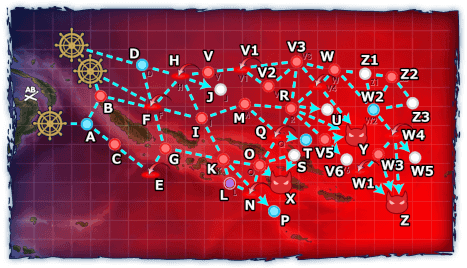
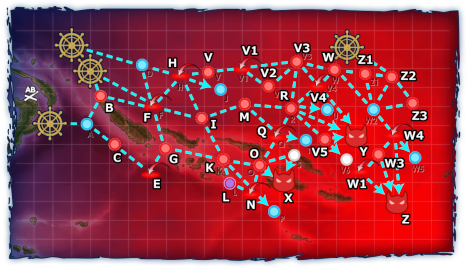
E-7-3 map

diff --git a/js/data.js b/js/data.js
@@ -15,8 +15,8 @@ const PLANE_TYPE = [
 	{ id: 102, name: "陸軍戦闘機", abbr: "陸戦", css: "css_lb_fighter" },
 	{ id: 103, name: "局地戦闘機", abbr: "局戦", css: "css_lb_attack_aircraft" },
 	{ id: 104, name: "陸上偵察機", abbr: "陸偵", css: "css_cb_reconnaissance" },
-];
-const PLANE_DATA = [
+ ];
+ const PLANE_DATA = [
 	{ id: 19, type: 1, name: "九六式艦戦", abbr: "", fire: 0, antiAir: 3, torpedo: 0, bomber: 0, armor: 0, asw: 0, antiBomber: 0, interception: 0, scout: 0, canRemodel: 1, accuracy: 0, avoid2: 1, radius: 3, cost: 3, avoid: 0 },
 	{ id: 20, type: 1, name: "零式艦戦21型", abbr: "", fire: 0, antiAir: 5, torpedo: 0, bomber: 0, armor: 0, asw: 0, antiBomber: 0, interception: 0, scout: 0, canRemodel: 1, accuracy: 0, avoid2: 0, radius: 7, cost: 4, avoid: 0 },
 	{ id: 21, type: 1, name: "零式艦戦52型", abbr: "", fire: 0, antiAir: 6, torpedo: 0, bomber: 0, armor: 0, asw: 0, antiBomber: 0, interception: 0, scout: 0, canRemodel: 1, accuracy: 0, avoid2: 0, radius: 6, cost: 5, avoid: 0 },
@@ -178,8 +178,8 @@ const PLANE_DATA = [
 	{ id: 354, type: 103, name: "Fw190 D-9", abbr: "", fire: 2, antiAir: 12, torpedo: 0, bomber: 0, armor: 0, asw: 0, antiBomber: 3, interception: 3, scout: 0, canRemodel: 0, accuracy: 0, avoid2: 0, radius: 3, cost: 8, avoid: 0 },
 	{ id: 311, type: 104, name: "二式陸上偵察機", abbr: "", fire: 0, antiAir: 3, torpedo: 0, bomber: 0, armor: 0, asw: 0, antiBomber: 0, interception: 0, scout: 8, canRemodel: 0, accuracy: 2, avoid2: 0, radius: 8, cost: 7, avoid: 0 },
 	{ id: 312, type: 104, name: "二式陸上偵察機(熟練)", abbr: "", fire: 0, antiAir: 3, torpedo: 0, bomber: 0, armor: 1, asw: 0, antiBomber: 0, interception: 0, scout: 9, canRemodel: 1, accuracy: 3, avoid2: 0, radius: 9, cost: 7, avoid: 0 },
-];
-const SHIP_TYPE = [
+ ];
+ const SHIP_TYPE = [
 	{ id: 1, name: "正規空母" },
 	{ id: 2, name: "装甲空母" },
 	{ id: 3, name: "軽空母" },
@@ -200,8 +200,8 @@ const SHIP_TYPE = [
 	{ id: 18, name: "潜水艦" },
 	{ id: 19, name: "海防艦" },
 	{ id: 20, name: "工作艦" },
-];
-const SHIP_DATA = [
+ ];
+ const SHIP_DATA = [
 	{ id: 6, type: 1, name: "赤城", slot: [18, 18, 27, 10], final: 0, orig: 6, deckid: 83 },
 	{ id: 7, type: 1, name: "加賀", slot: [18, 18, 45, 12], final: 0, orig: 7, deckid: 84 },
 	{ id: 8, type: 1, name: "蒼龍", slot: [12, 27, 18, 7], final: 0, orig: 8, deckid: 90 },
@@ -352,8 +352,8 @@ const SHIP_DATA = [
 	{ id: 1501, type: 12, name: "伊19改", slot: [1, 1], final: 1, orig: 123, deckid: 401 },
 	{ id: 1503, type: 12, name: "伊401改", slot: [3, 3], final: 1, orig: 155, deckid: 403 },
 	{ id: 1506, type: 12, name: "伊400改", slot: [3, 3], final: 1, orig: 293, deckid: 606 },
-];
-const ENEMY_TYPE = [
+ ];
+ const ENEMY_TYPE = [
 	{ id: 11, name: "正規空母" },
 	{ id: 12, name: "軽空母" },
 	{ id: 13, name: "戦艦" },
@@ -367,8 +367,8 @@ const ENEMY_TYPE = [
 	{ id: 21, name: "浮遊/護衛 要塞" },
 	{ id: 1, name: "鬼/姫" },
 	{ id: 2, name: "地上施設" },
-];
-const ENEMY_DATA = [
+ ];
+ const ENEMY_DATA = [
 	{ id: -1, type: [11, 12, 13, 14, 15, 16, 17, 18, 19, 20, 21, 1, 2], name: "直接入力", slot: [], eqp: [], orig: -1, aaw: 0, aabo: 0 },
 	{ id: 1, type: [16], name: "駆逐イ級", slot: [], eqp: [], orig: 1, aaw: 4, aabo: 0 },
 	{ id: 2, type: [16], name: "駆逐ロ級", slot: [], eqp: [], orig: 2, aaw: 4, aabo: 0 },
@@ -704,8 +704,8 @@ const ENEMY_DATA = [
 	{ id: 476, type: [1, 11], name: "南太平洋空母棲姫-壊 [甲]", slot: [], eqp: [], orig: 0, aaw: 26, aabo: 4 },
 	{ id: 477, type: [1, 18], name: "潜水夏姫IIfragship", slot: [], eqp: [], orig: 477, aaw: 0, aabo: 0 },
 	{ id: 478, type: [1, 18], name: "潜水夏姫IIfragship", slot: [], eqp: [], orig: 478, aaw: 0, aabo: 0 },
-];
-const ENEMY_PLANE_DATA = [
+ ];
+ const ENEMY_PLANE_DATA = [
 	{ id: 519, type: 1, name: "深海棲艦戦", antiAir: 2, torpedo: 0, bomber: 0 },
 	{ id: 520, type: 1, name: "深海棲艦戦 Mark.II", antiAir: 5, torpedo: 0, bomber: 0 },
 	{ id: 521, type: 1, name: "深海棲艦戦 Mark.III", antiAir: 9, torpedo: 0, bomber: 0 },
@@ -744,15 +744,15 @@ const ENEMY_PLANE_DATA = [
 	{ id: 555, type: 6, name: "深海水上攻撃機改", antiAir: 9, torpedo: 0, bomber: 13 },
 	{ id: 571, type: 6, name: "深海水母小鬼機", antiAir: 11, torpedo: 0, bomber: 15 },
 	{ id: 573, type: 6, name: "深海潜水下駄履き", antiAir: 6, torpedo: 0, bomber: 18 },
-];
-const DIFFICULTY = [
+ ];
+ const DIFFICULTY = [
 	{ id: -1, name: "-" },
 	{ id: 0, name: "丁" },
 	{ id: 1, name: "丙" },
 	{ id: 2, name: "乙" },
 	{ id: 3, name: "甲" },
-];
-const WORLD_DATA = [
+ ];
+ const WORLD_DATA = [
 	{ world: 2006, name: "侵攻阻止！島嶼防衛強化作戦(2020梅雨イベ)" },
 	{ world: 1, name: "鎮守府海域" },
 	{ world: 2, name: "南西諸島海域" },
@@ -763,8 +763,8 @@ const WORLD_DATA = [
 	{ world: 6, name: "中部海域" },
 	{ world: 1911, name: "進撃！第二次作戦「南方作戦」(2019秋イベ)" },
 	{ world: 2003, name: "桃の節句！沖に立つ波(ミニ期間限定海域)" },
-];
-const MAP_DATA = [
+ ];
+ const MAP_DATA = [
 	{ area: 11, name: "鎮守府正面海域" },
 	{ area: 12, name: "南西諸島沖" },
 	{ area: 13, name: "製油所地帯沿岸" },
@@ -812,8 +812,8 @@ const MAP_DATA = [
 	{ area: 20065, name: "ニューブリテン島沖/ソロモン諸島西部沖" },
 	{ area: 20066, name: "ソロモン諸島沖" },
 	{ area: 20067, name: "ソロモン諸島沖/サンタ・クルーズ諸島沖" },
-];
-const ENEMY_PATTERN = [
+ ];
+ const ENEMY_PATTERN = [
 	{ a: 11, n: "A", d: "", l: -1, t: 1, f: 1, r: 0, e: [1], c: "219,112,246,149" },
 	{ a: 11, n: "A", d: "", l: -1, t: 1, f: 1, r: 0, e: [2], c: "219,112,246,149" },
 	{ a: 11, n: "A", d: "", l: -1, t: 1, f: 1, r: 0, e: [3], c: "219,112,246,149" },
@@ -2165,38 +2165,39 @@ const ENEMY_PATTERN = [
 	{ a: 20066, n: "空襲", d: "", l: 3, t: 5, f: 3, r: 0, e: [183, 152, 151, 151], c: "" },
 	{ a: 20066, n: "空襲", d: "", l: 3, t: 5, f: 3, r: 0, e: [183, 151, 151, 151], c: "" },
 	{ a: 20066, n: "空襲", d: "", l: 3, t: 5, f: 3, r: 0, e: [183, 151, 151], c: "" },
-	{ a: 20067, n: "B", d: "", l: 3, t: 1, f: 4, r: 1, e: [72, 71, 71, 71], c: "" },
-	{ a: 20067, n: "C", d: "", l: 3, t: 1, f: 4, r: 2, e: [72, 71, 71, 71], c: "" },
-	{ a: 20067, n: "E", d: "", l: 3, t: 3, f: 3, r: 3, e: [183, 151, 151, 151], c: "" },
-	{ a: 20067, n: "F", d: "", l: 3, t: 3, f: 3, r: 2, e: [183, 151, 151, 151], c: "" },
-	{ a: 20067, n: "F", d: "", l: 3, t: 3, f: 3, r: 2, e: [183, 152, 152], c: "" },
-	{ a: 20067, n: "G", d: "", l: 3, t: 1, f: 2, r: 3, e: [55, 362, 78, 78, 78, 78], c: "" },
-	{ a: 20067, n: "H", d: "", l: 3, t: 3, f: 3, r: 3, e: [183, 152, 152], c: "" },
-	{ a: 20067, n: "I", d: "", l: 3, t: 1, f: 2, r: 3, e: [27, 27, 362, 124, 78, 78], c: "" },
-	{ a: 20067, n: "M", d: "", l: 3, t: 1, f: 4, r: 4, e: [308, 71, 71], c: "" },
-	{ a: 20067, n: "N", d: "", l: 3, t: 3, f: 3, r: 5, e: [183, 151, 151, 151], c: "" },
-	{ a: 20067, n: "O", d: "", l: 3, t: 1, f: 2, r: 5, e: [27, 27, 92, 124, 78, 78], c: "" },
-	{ a: 20067, n: "Q", d: "", l: 3, t: 3, f: 3, r: 5, e: [464, 279, 279, 198, 456, 362], c: "" },
-	{ a: 20067, n: "R", d: "", l: 3, t: 1, f: 1, r: 5, e: [29, 29, 266, 54, 78, 78], c: "" },
-	{ a: 20067, n: "V", d: "", l: 3, t: 1, f: 4, r: 3, e: [478, 72, 71, 71], c: "" },
-	{ a: 20067, n: "V1", d: "", l: 3, t: 3, f: 3, r: 4, e: [464, 464, 279, 279, 198, 456], c: "" },
-	{ a: 20067, n: "V2", d: "", l: 3, t: 1, f: 1, r: 5, e: [27, 27, 55, 362, 78, 78], c: "" },
-	{ a: 20067, n: "V3", d: "", l: 3, t: 1, f: 2, r: 6, e: [29, 27, 266, 54, 78, 78], c: "" },
-	{ a: 20067, n: "V4", d: "", l: 3, t: 3, f: 3, r: 6, e: [464, 464, 279, 279, 198, 456], c: "" },
-	{ a: 20067, n: "V5", d: "", l: 3, t: 1, f: 1, r: 6, e: [55, 92, 92, 240, 240, 240], c: "" },
-	{ a: 20067, n: "W", d: "", l: 3, t: 1, f: 3, r: 6, e: [279, 27, 27, 362, 78, 78], c: "" },
-	{ a: 20067, n: "W4", d: "", l: 3, t: 3, f: 3, r: 8, e: [473, 279, 279, 198, 456, 456], c: "" },
-	{ a: 20067, n: "X", d: "前哨", l: 3, t: 2, f: 11, r: 5, e: [181, 423, 422, 422, 167, 26, 55, 92, 124, 124, 26, 26], c: "" },
-	{ a: 20067, n: "X", d: "最終", l: 3, t: 2, f: 11, r: 5, e: [181, 426, 425, 425, 167, 26, 405, 362, 451, 451, 451, 26], c: "" },
-	{ a: 20067, n: "Y", d: "前哨", l: 3, t: 2, f: 11, r: 7, e: [464, 279, 279, 292, 456, 362, 405, 92, 451, 451, 240, 240], c: "" },
-	{ a: 20067, n: "Y", d: "最終", l: 3, t: 2, f: 11, r: 7, e: [464, 464, 279, 292, 456, 362, 405, 92, 451, 451, 451, 451], c: "" },
-	{ a: 20067, n: "Z", d: "前哨", l: 3, t: 2, f: 11, r: 9, e: [473, 279, 279, 198, 456, 456, 55, 362, 452, 452, 241, 241], c: "" },
+	{ a: 20067, n: "B", d: "", l: 3, t: 1, f: 4, r: 1, e: [72, 71, 71, 71], c: "91, 83, 111, 103" },
+	{ a: 20067, n: "C", d: "", l: 3, t: 1, f: 4, r: 2, e: [72, 71, 71, 71], c: "104, 132, 124, 152" },
+	{ a: 20067, n: "E", d: "", l: 3, t: 3, f: 3, r: 3, e: [183, 151, 151, 151], c: "141, 158, 161, 178" },
+	{ a: 20067, n: "F", d: "", l: 3, t: 3, f: 3, r: 2, e: [183, 151, 151, 151], c: "143, 90, 163, 110" },
+	{ a: 20067, n: "F", d: "", l: 3, t: 3, f: 3, r: 2, e: [183, 152, 152], c: "143, 90, 163, 110" },
+	{ a: 20067, n: "G", d: "", l: 3, t: 1, f: 2, r: 3, e: [55, 362, 78, 78, 78, 78], c: "154, 135, 174, 155" },
+	{ a: 20067, n: "H", d: "", l: 3, t: 3, f: 3, r: 3, e: [183, 152, 152], c: "170, 60, 190, 80" },
+	{ a: 20067, n: "I", d: "", l: 3, t: 1, f: 2, r: 3, e: [27, 27, 362, 124, 78, 78], c: "192, 105, 212, 125" },
+	{ a: 20067, n: "M", d: "", l: 3, t: 1, f: 4, r: 4, e: [308, 71, 71], c: "234, 91, 254, 111" },
+	{ a: 20067, n: "N", d: "", l: 3, t: 3, f: 3, r: 5, e: [183, 151, 151, 151], c: "242, 178, 262, 198" },
+	{ a: 20067, n: "O", d: "", l: 3, t: 1, f: 2, r: 5, e: [27, 27, 92, 124, 78, 78], c: "250, 152, 272, 172" },
+	{ a: 20067, n: "Q", d: "", l: 3, t: 3, f: 3, r: 5, e: [464, 279, 279, 198, 456, 362], c: "267, 122, 287, 142" },
+	{ a: 20067, n: "R", d: "", l: 3, t: 1, f: 1, r: 5, e: [29, 29, 266, 54, 78, 78], c: "281, 96, 301, 116" },
+	{ a: 20067, n: "V", d: "", l: 3, t: 1, f: 4, r: 3, e: [478, 72, 71, 71], c: "198, 60, 118, 80" },
+	{ a: 20067, n: "V1", d: "", l: 3, t: 3, f: 3, r: 4, e: [464, 464, 279, 279, 198, 456], c: "233, 53, 253, 73" },
+	{ a: 20067, n: "V2", d: "", l: 3, t: 1, f: 1, r: 5, e: [27, 27, 55, 362, 78, 78], c: "258, 73, 278, 93" },
+	{ a: 20067, n: "V3", d: "", l: 3, t: 1, f: 2, r: 6, e: [29, 27, 266, 54, 78, 78], c: "286, 48, 306, 68" },
+	{ a: 20067, n: "V4", d: "", l: 3, t: 3, f: 3, r: 6, e: [464, 464, 279, 279, 198, 456], c: "308, 71, 328, 91" },
+	{ a: 20067, n: "V5", d: "", l: 3, t: 1, f: 1, r: 6, e: [55, 92, 92, 240, 240, 240], c: "314, 128, 334, 148" },
+	{ a: 20067, n: "W", d: "", l: 3, t: 1, f: 3, r: 6, e: [279, 27, 27, 362, 78, 78], c: "324, 56, 344, 76" },
+	{ a: 20067, n: "W4", d: "", l: 3, t: 3, f: 3, r: 8, e: [473, 279, 279, 198, 456, 456], c: "384, 120, 404, 140" },
+	{ a: 20067, n: "X", d: "前哨", l: 3, t: 2, f: 11, r: 5, e: [181, 423, 422, 422, 167, 26, 55, 92, 124, 124, 26, 26], c: "273, 171, 293, 191" },
+	{ a: 20067, n: "X", d: "最終", l: 3, t: 2, f: 11, r: 5, e: [181, 426, 425, 425, 167, 26, 405, 362, 451, 451, 451, 26], c: "273, 171, 293, 191" },
+	{ a: 20067, n: "Y", d: "前哨", l: 3, t: 2, f: 11, r: 7, e: [464, 279, 279, 292, 456, 362, 405, 92, 451, 451, 240, 240], c: "345, 125, 365, 165" },
+	{ a: 20067, n: "Y", d: "最終", l: 3, t: 2, f: 11, r: 7, e: [464, 464, 279, 292, 456, 362, 405, 92, 451, 451, 451, 451], c: "345, 125, 365, 165" },
+	{ a: 20067, n: "Z", d: "前哨", l: 3, t: 2, f: 11, r: 9, e: [473, 279, 279, 198, 456, 456, 55, 362, 452, 452, 241, 241], c: "386, 192, 406, 112" },
+	{ a: 20067, n: "Z1", d: "", l: 3, t: 1, f: 5, r: 7, e: [478, 72, 71, 71], c: "354, 60, 374, 80" },
 	{ a: 20067, n: "空襲", d: "", l: 3, t: 5, f: 3, r: 0, e: [183, 152, 152, 151], c: "" },
 	{ a: 20067, n: "空襲", d: "", l: 3, t: 5, f: 3, r: 0, e: [183, 152, 151, 151], c: "" },
 	{ a: 20067, n: "空襲", d: "", l: 3, t: 5, f: 3, r: 0, e: [183, 151, 151, 151], c: "" },
 	{ a: 20067, n: "空襲", d: "", l: 3, t: 5, f: 3, r: 0, e: [183, 152, 152], c: "" },
 	{ a: 20067, n: "空襲", d: "", l: 3, t: 5, f: 3, r: 0, e: [183, 152, 151], c: "" },
-];
+ ];
 // 制空状態
 const AIR_STATUS = [
 	{ id: 0, name: "制空権確保", abbr: "確保", rate: 10 },
